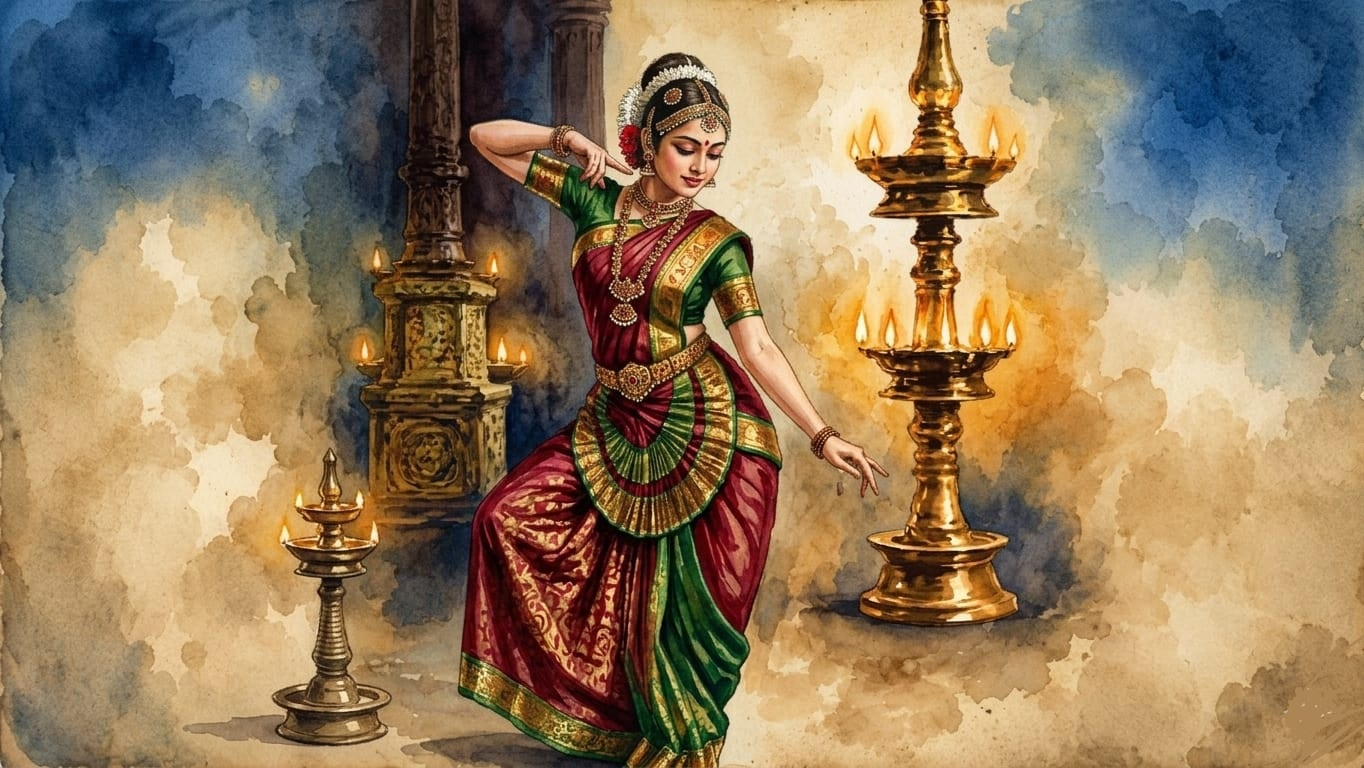
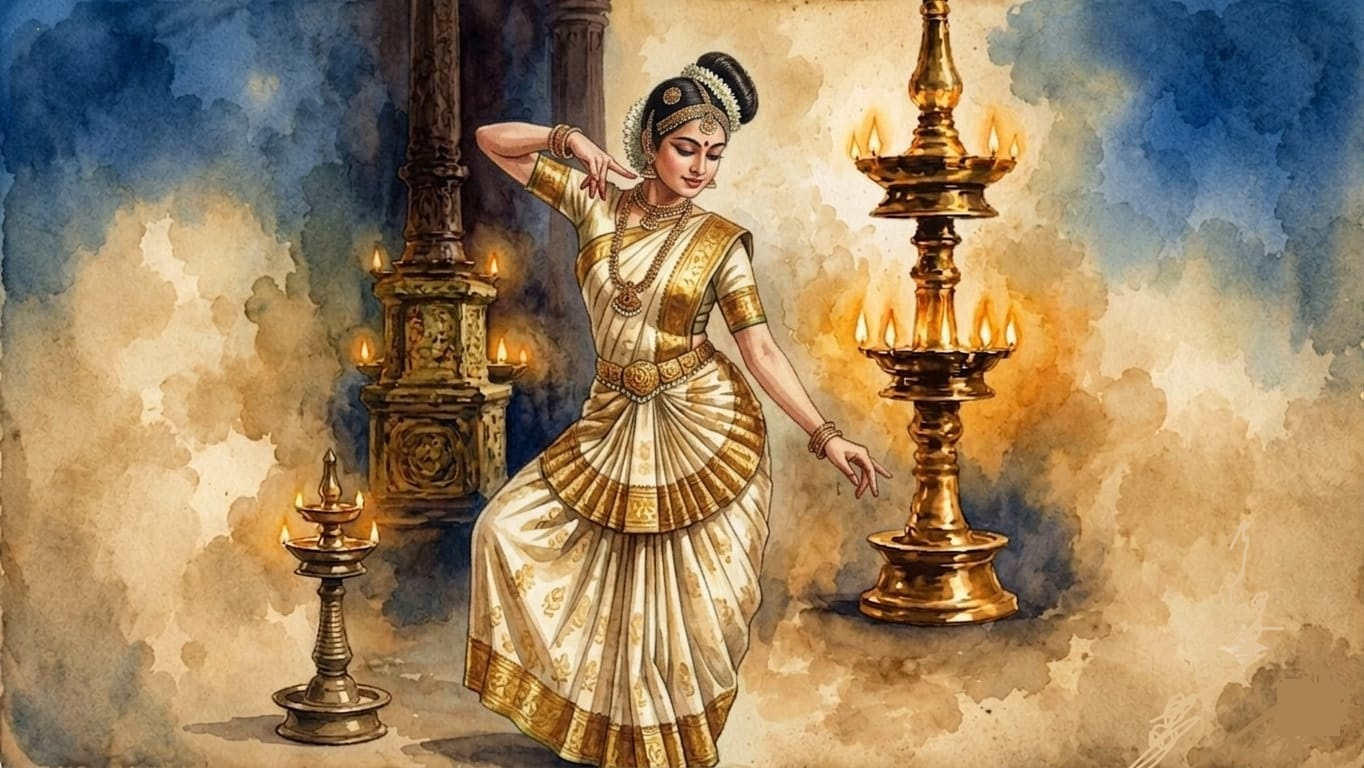
made additional changes

diff --git a/testimonials.html b/testimonials.html
@@ -1,4 +1,3 @@
-
 <!DOCTYPE html>
 <html lang="en">
 <head>
@@ -12,7 +11,7 @@
 
 <nav class="nav scrolled" id="nav">
   <div class="nav-inner">
-    <a href="index.html" class="nav-logo">Nadhalayam</a>
+    <a href="index.html" class="nav-logo">NADHALAYAM</a>
     <ul class="nav-links" id="navLinks">
       <li><a href="index.html">Home</a></li>
       <li><a href="about.html">About</a></li>
@@ -20,7 +19,6 @@
       <li><a href="faculty.html">Faculty</a></li>
       <li><a href="testimonials.html" class="active">Testimonials</a></li>
       <li><a href="gallery.html">Gallery</a></li>
-      
       <li><a href="contact.html">Contact</a></li>
     </ul>
     <button class="nav-toggle" id="navToggle" aria-label="Toggle menu">
@@ -51,23 +49,12 @@
 
     <div class="testimonial-card reveal">
       <div class="testimonial-img">
-        <img src="images/Cherthala%20Rajesh.jpeg" alt="Cherthala Rajesh" loading="lazy">
+        <img src="images/Mohan%20Sithara.jpeg" alt="Mohan Sithara" loading="lazy">
       </div>
       <div class="testimonial-body">
-        <blockquote class="testimonial-quote">&ldquo;Nadhalayam has emerged as a flourishing space for artistic expression and cultural enrichment. The institution's commitment to cultivating talent and preserving the essence of our classical traditions is truly praiseworthy. The enthusiasm, professionalism, and perseverance reflected in its activities have earned it a special place among art lovers. I am delighted to witness the positive impact Nadhalayam continues to create in the lives of aspiring artists. My best wishes for its continued growth and accomplishments.&rdquo;</blockquote>
-        <p class="testimonial-about">Acclaimed flautist from Kerala | Disciple of Pandit Hariprasad Chaurasia | Performed in hundreds of film songs and stage concerts</p>
-        <h3 class="testimonial-name">&mdash; Cherthala Rajesh</h3>
-      </div>
-    </div>
-
-    <div class="testimonial-card reveal">
-      <div class="testimonial-img">
-        <img src="images/Cherthala%20Binuanand.jpeg" alt="Cherthala Binuanand" loading="lazy">
-      </div>
-      <div class="testimonial-body">
-        <blockquote class="testimonial-quote">&ldquo;Nadhalayam is a beautiful platform where talent is encouraged, nurtured, and celebrated. The passion and commitment shown by the teachers and students are truly admirable. My heartfelt wishes for the institution's continued growth and achievements.&rdquo;</blockquote>
-        <p class="testimonial-about">Playback Singer | Music Director | Well-known stage performer and cultural artist</p>
-        <h3 class="testimonial-name">&mdash; Cherthala Binuanand</h3>
+        <blockquote class="testimonial-quote">&ldquo;In an era where preserving our artistic heritage is more important than ever, Nadhalayam shines as a beacon of culture, creativity, and commitment. Its unwavering efforts in cultivating young talent and instilling a deep appreciation for the arts are truly admirable. The institution has created a legacy of excellence through its passion, discipline, and dedication. I wholeheartedly congratulate Nadhalayam and wish it continued success in enriching the cultural life of our society.&rdquo;</blockquote>
+        <p class="testimonial-about">Music Composer | Known for his contributions in the Malayalam film industry</p>
+        <h3 class="testimonial-name">&mdash; Mohan Sithara</h3>
       </div>
     </div>
 
@@ -79,6 +66,17 @@
         <blockquote class="testimonial-quote">&ldquo;Nadhalayam is a space where creativity finds direction and tradition finds new life. The institution's energy, commitment, and artistic spirit are truly inspiring. My best wishes for its continued journey in shaping talented young performers.&rdquo;</blockquote>
         <p class="testimonial-about">National Award-winning music composer | Multiple Kerala State Film Awards recipient | Known for Kaliyachan, Maheshinte Prathikaaram, Vellam</p>
         <h3 class="testimonial-name">&mdash; Bijibal</h3>
+      </div>
+    </div>
+
+    <div class="testimonial-card reveal">
+      <div class="testimonial-img">
+        <img src="images/G%20Venugopal.jpeg" alt="G Venugopal" loading="lazy">
+      </div>
+      <div class="testimonial-body">
+        <blockquote class="testimonial-quote">&ldquo;Nadhalayam is not just a place where music is taught, it is a space where a genuine love for music is nurtured and celebrated. The institution provides students with a strong musical foundation while inspiring creativity, discipline, and artistic excellence. I appreciate Nadhalayam's dedicated efforts in shaping the next generation of musicians and preserving the rich heritage of our musical traditions. My heartfelt wishes for its continued success and growth.&rdquo;</blockquote>
+        <p class="testimonial-about">Playback Singer | Known for his work in the Malayalam Film Industry</p>
+        <h3 class="testimonial-name">&mdash; G Venugopal</h3>
       </div>
     </div>
 
@@ -117,14 +115,26 @@
 
     <div class="testimonial-card reveal">
       <div class="testimonial-img">
-        <img src="images/Mohan%20Sithara.jpeg" alt="Mohan Sithara" loading="lazy">
+        <img src="images/Cherthala%20Rajesh.jpeg" alt="Cherthala Rajesh" loading="lazy">
       </div>
       <div class="testimonial-body">
-        <blockquote class="testimonial-quote">&ldquo;In an era where preserving our artistic heritage is more important than ever, Nadhalayam shines as a beacon of culture, creativity, and commitment. Its unwavering efforts in cultivating young talent and instilling a deep appreciation for the arts are truly admirable. The institution has created a legacy of excellence through its passion, discipline, and dedication. I wholeheartedly congratulate Nadhalayam and wish it continued success in enriching the cultural life of our society.&rdquo;</blockquote>
-        <p class="testimonial-about">Music Composer | Known for his contributions in the Malayalam film industry</p>
-        <h3 class="testimonial-name">&mdash; Mohan Sithara</h3>
+        <blockquote class="testimonial-quote">&ldquo;Nadhalayam has emerged as a flourishing space for artistic expression and cultural enrichment. The institution's commitment to cultivating talent and preserving the essence of our classical traditions is truly praiseworthy. The enthusiasm, professionalism, and perseverance reflected in its activities have earned it a special place among art lovers. I am delighted to witness the positive impact Nadhalayam continues to create in the lives of aspiring artists. My best wishes for its continued growth and accomplishments.&rdquo;</blockquote>
+        <p class="testimonial-about">Acclaimed flautist from Kerala | Disciple of Pandit Hariprasad Chaurasia | Performed in hundreds of film songs and stage concerts</p>
+        <h3 class="testimonial-name">&mdash; Cherthala Rajesh</h3>
       </div>
     </div>
+
+    <div class="testimonial-card reveal">
+      <div class="testimonial-img">
+        <img src="images/Cherthala%20Binuanand.jpeg" alt="Cherthala Binuanand" loading="lazy">
+      </div>
+      <div class="testimonial-body">
+        <blockquote class="testimonial-quote">&ldquo;Nadhalayam is a beautiful platform where talent is encouraged, nurtured, and celebrated. The passion and commitment shown by the teachers and students are truly admirable. My heartfelt wishes for the institution's continued growth and achievements.&rdquo;</blockquote>
+        <p class="testimonial-about">Playback Singer | Music Director | Well-known stage performer and cultural artist</p>
+        <h3 class="testimonial-name">&mdash; Cherthala Binuanand</h3>
+      </div>
+    </div>
+
   </div>
 </section>
 

diff --git a/classes.html b/classes.html
@@ -144,6 +144,16 @@
         <p>From Kerala mural art to contemporary styles — a space for visual creativity. Students explore color, form, and expression through guided practice and personal projects.</p>
       </div>
     </div>
+
+    <div class="class-detail-card reveal">
+      <div class="class-card-img">
+        <img src="images/Kuchippudi.jpeg" alt="Kuchippudi">
+      </div>
+      <div class="class-card-body">
+        <h3>Kuchippudi</h3>
+        <p>The graceful classical dance form from Andhra Pradesh — characterized by its storytelling, fluid movements, and intricate footwork. Taught with reverence for the tradition and emphasis on expressive abhinaya.</p>
+      </div>
+    </div>
   </div>
 </section>
 

diff --git a/index.html b/index.html
@@ -31,12 +31,12 @@
 <!-- Hero Slideshow -->
 <section class="hero" id="hero">
   <div class="hero-slide active hero-slide-swap" style="background-image:url('images/coverpage1.jpeg');" data-caption="Bharatanatyam"></div>
-  <div class="hero-slide" style="background-image:url('images/12.jpeg');" data-caption="Carnatic Music"></div>
+  <div class="hero-slide" style="background-image:url('images/12.jpg');" data-caption="Carnatic Music"></div>
   <div class="hero-slide" style="background-image:url('images/13.jpeg');" data-caption="Mohiniyattam"></div>
   <div class="hero-slide" style="background-image:url('images/14.jpg');" data-caption="Kerala Classical Arts"></div>
-  <div class="hero-slide" style="background-image:url('images/15.jpeg');" data-caption="Nadhalayam"></div>
-  <div class="hero-slide" style="background-image:url('images/16.jpeg');" data-caption="Nadhalayam"></div>
-  <div class="hero-slide" style="background-image:url('images/17.jpeg');" data-caption="Nadhalayam"></div>
+  <div class="hero-slide" style="background-image:url('images/15.jpg');" data-caption="Nadhalayam"></div>
+  <div class="hero-slide" style="background-image:url('images/16.jpg');" data-caption="Nadhalayam"></div>
+  <div class="hero-slide" style="background-image:url('images/17.jpg');" data-caption="Nadhalayam"></div>
 
   <div class="hero-nav" id="heroNav">
     <button class="hero-dot active" data-index="0"></button>